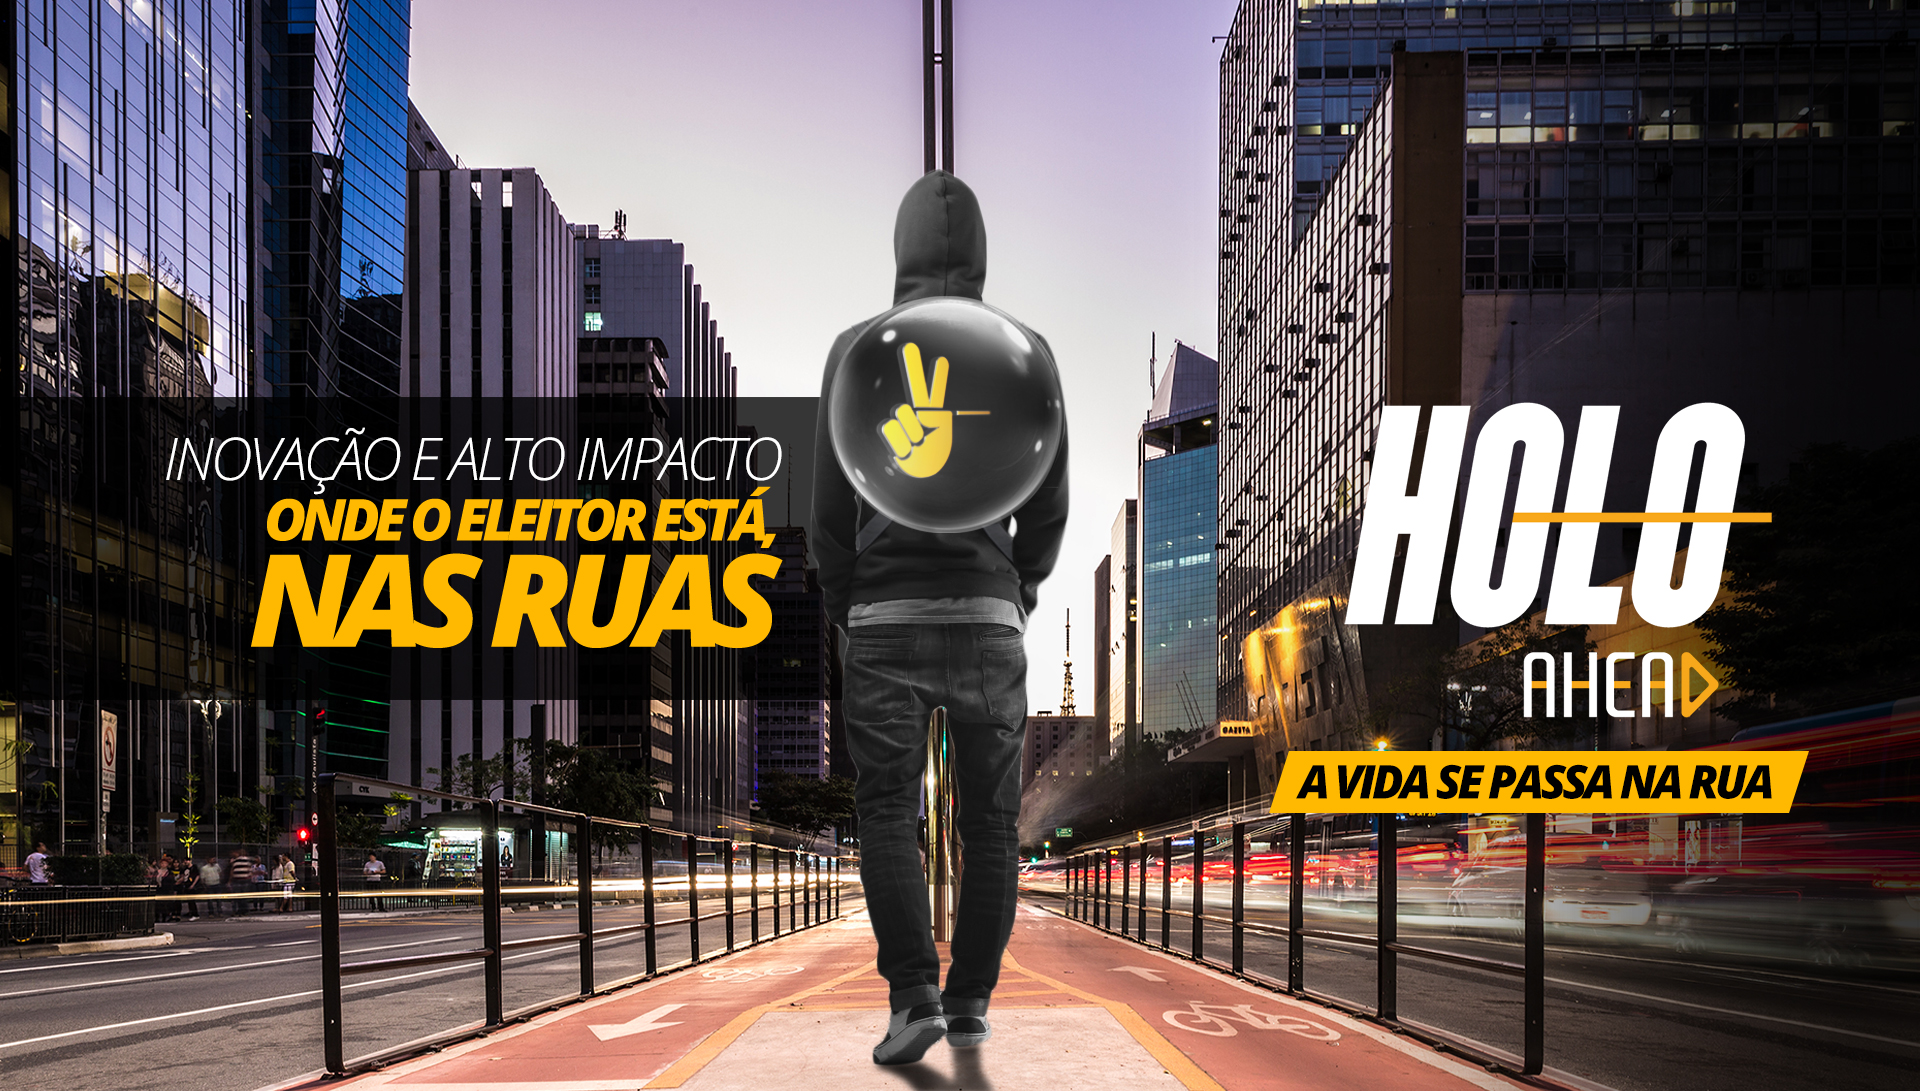
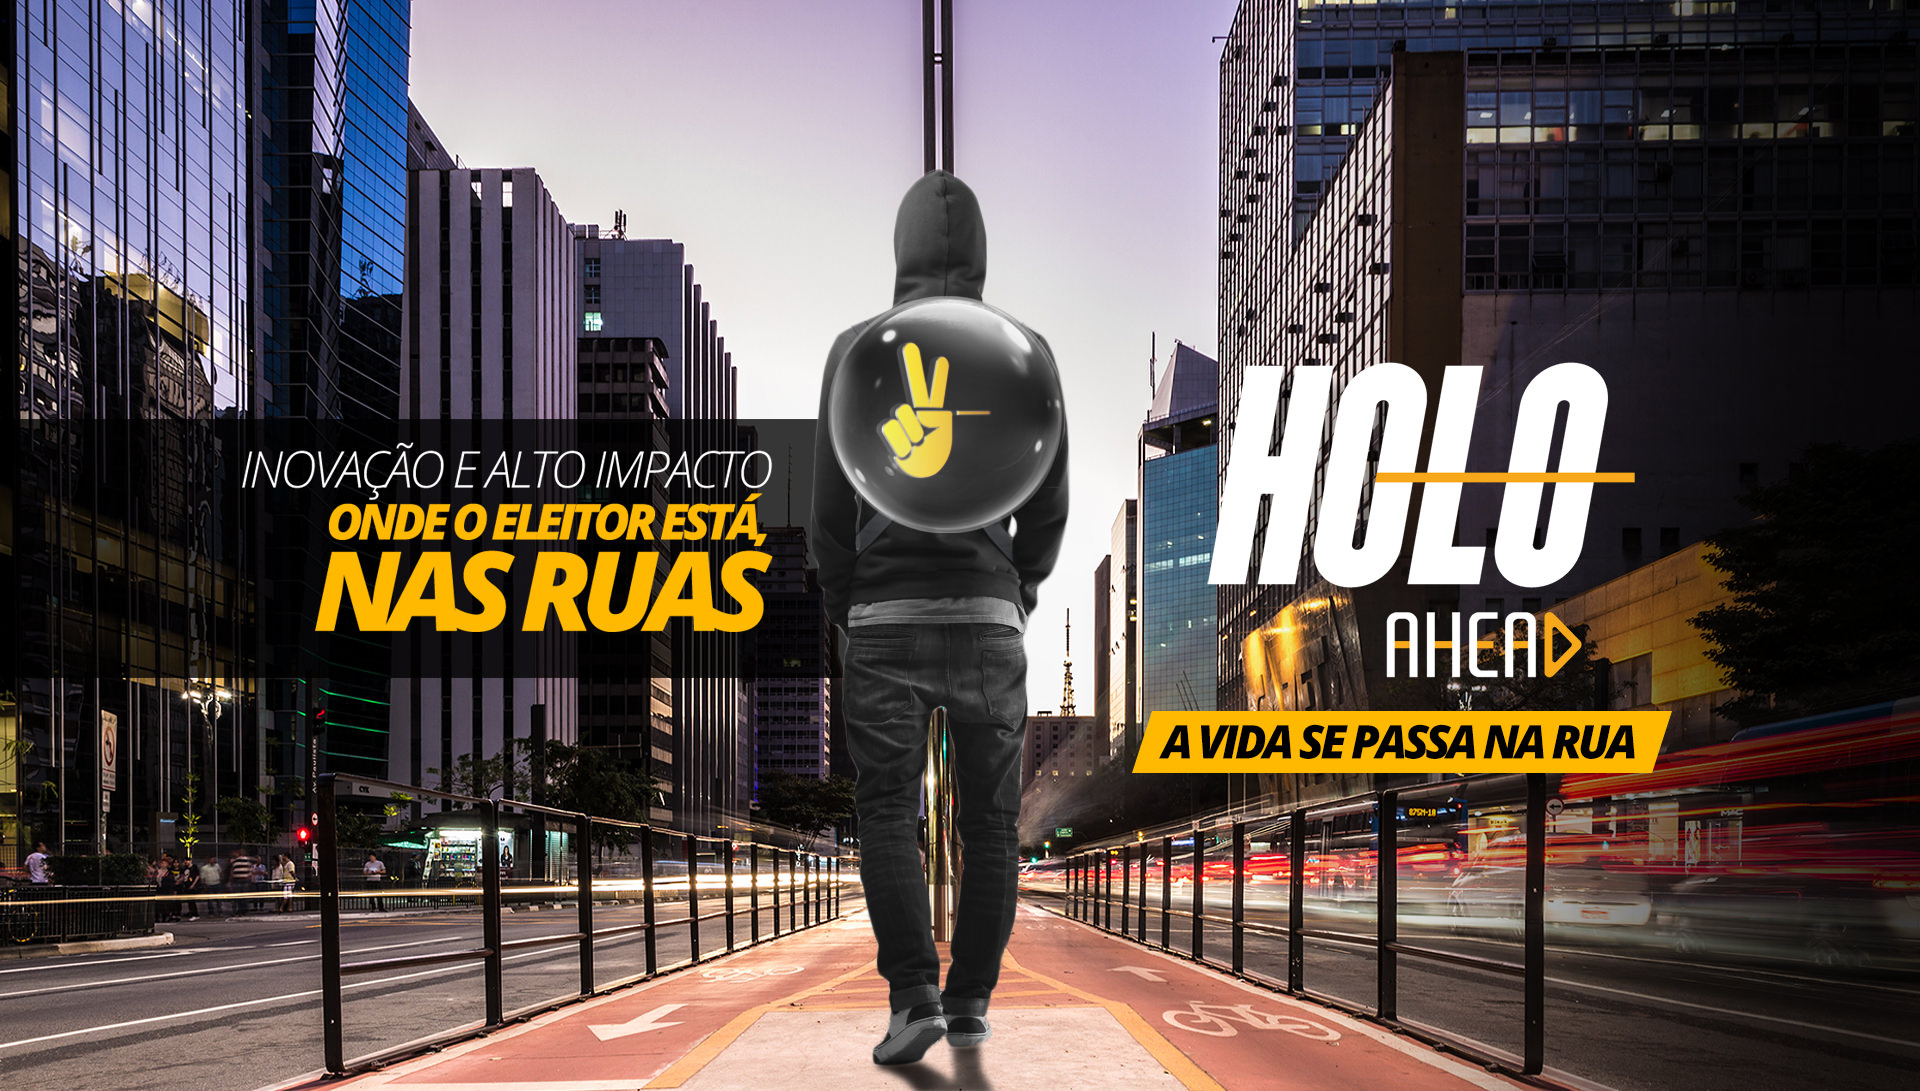
Page with Header and image optimization

diff --git a/assets/css/main.scss b/assets/css/main.scss
@@ -26,6 +26,7 @@ $orange: #ffb900;
   width: 100%;
   height: 700px;
   background: url('~/assets/images/hero.jpg');
+  background-color: black;
   background-repeat: no-repeat;
   background-position: center;
   background-size: cover;
@@ -148,6 +149,31 @@ $orange: #ffb900;
   font-size: 1.6em;
   line-height: 1em;
 }
+.holo-title {
+  font-weight: 100;
+  color: white;
+  font-size: 3vw;
+  font-style: italic;
+  text-transform: uppercase;
+}
+.tagline {
+  margin-top: 230px;
+}
+.tag1 {
+  grid-area: tag1;
+}
+.tag2 {
+  grid-area: tag2;
+  text-align: right;
+}
+.tagline-content {
+  display: grid;
+  grid-template-columns: 1fr 1fr;
+  grid-template-areas: 'tag1 tag2';
+}
+.tagline {
+  width: 350px;
+}
 
 @include media-breakpoint-down(sm) {
   .title-text,
@@ -155,8 +181,9 @@ $orange: #ffb900;
     font-size: $font-small !important;
   }
   .hero-image {
+    background: url('~/assets/images/hero-sm.jpg') !important;
     height: 700px;
-    background-position: calc(50% + 120px) 50%;
+    background-position: calc(50% + 120px) 50% !important;
   }
   .text-upper {
     font-size: $font-small * 0.8;
@@ -204,9 +231,17 @@ $orange: #ffb900;
       padding: 0;
     }
   }
+  .holo-title {
+    font-size: 5vw !important;
+  }
 }
 
 @include media-breakpoint-down(lg) {
+  .hero-image {
+    background: url('~/assets/images/hero-lg.jpg');
+    height: 700px;
+    background-position: center;
+  }
   .title-text,
   .holo-title-orange {
     font-size: $font-medium !important;

diff --git a/components/Hero.vue b/components/Hero.vue
@@ -9,13 +9,11 @@
             <p>nas ruas</p>
         </div>
         <div class="hero-body">
-            <div class="container">
-                <h1 class="title">
-                    Large title
-                </h1>
-                <h2 class="subtitle">
-                    Large subtitle
-                </h2>
+            <div class="container tagline-content">
+                <div class="tag1"></div>
+                <div class="tag2">
+                    <img class="tagline" src="~/assets/images/tagline.png">
+                </div>
             </div>
         </div> -->
     </section>
@@ -30,12 +28,5 @@
   text-align: right;
   h1 {
   }
-}
-.holo-title {
-  font-weight: 100;
-  color: white;
-  font-size: 3vw;
-  font-style: italic;
-  text-transform: uppercase;
 }
 </style>
